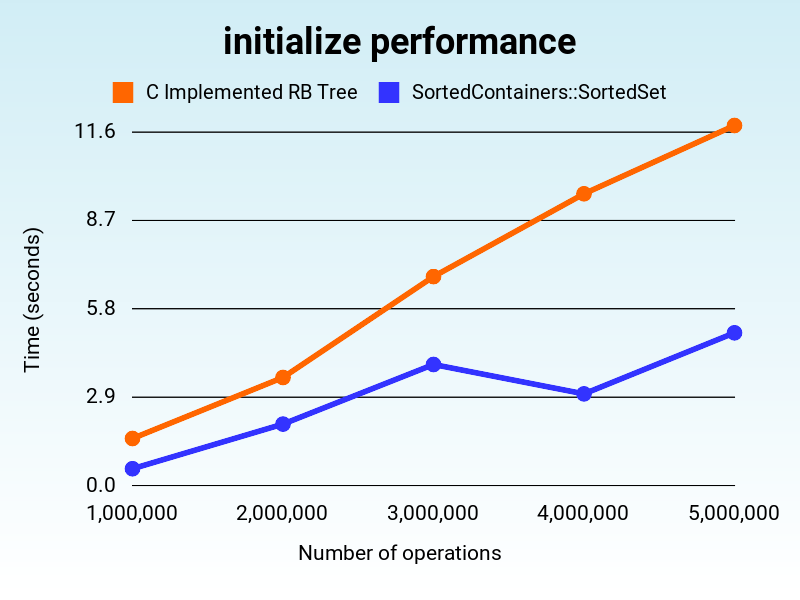
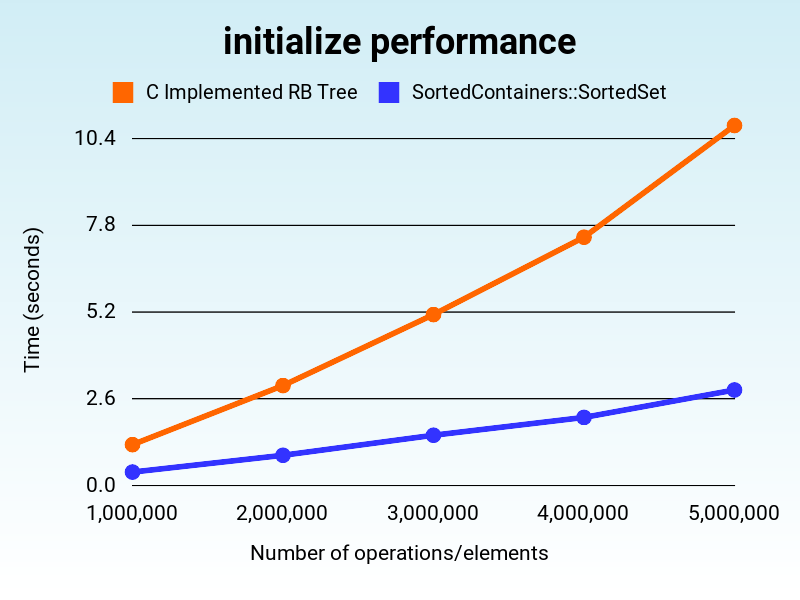
Update benchmarks

diff --git a/benchmark/benchmark.rb b/benchmark/benchmark.rb
@@ -19,9 +19,10 @@ Benchmark.bm(15) do |bm|
 
     # Benchmarking original SortedSet
     bm.report("SortedSet #{n}:") do
-      total_time = {add: 0, include: 0, loop: 0, delete: 0}
+      total_time = {initialize: 0, add: 0, include: 0, loop: 0, delete: 0}
       runs.times do
         sorted_set = SortedSet.new
+        total_time[:initialize] += Benchmark.measure { SortedSet.new(list_adds) }.real
         total_time[:add] += Benchmark.measure { list_adds.each { |i| sorted_set.add(i) } }.real
         total_time[:include] += Benchmark.measure { (1..n).map { rand((-0.5*n).to_i..(n*1.5).to_i) }.each { |i| sorted_set.include?(i) } }.real
         total_time[:loop] += Benchmark.measure { sorted_set.each { |i| } }.real
@@ -31,6 +32,7 @@ Benchmark.bm(15) do |bm|
           end
         end.real
       end
+      results_for_n[:initialize_sorted_set] = total_time[:initialize] / runs
       results_for_n[:add_sorted_set] = total_time[:add] / runs
       results_for_n[:include_sorted_set] = total_time[:include] / runs
       results_for_n[:loop_sorted_set] = total_time[:loop] / runs
@@ -39,9 +41,10 @@ Benchmark.bm(15) do |bm|
 
     # Benchmarking custom SortedSet
     bm.report("SortedContainers #{n}:") do
-      total_time = {add: 0, include: 0, loop: 0, delete: 0}
+      total_time = {initialize: 0, add: 0, include: 0, loop: 0, delete: 0}
       runs.times do
         sorted_set = SortedContainers::SortedSet.new
+        total_time[:initialize] += Benchmark.measure { SortedContainers::SortedSet.new(list_adds) }.real
         total_time[:add] += Benchmark.measure { list_adds.each { |i| sorted_set.add(i) } }.real
         total_time[:include] += Benchmark.measure { (1..n).map { rand((-0.5*n).to_i..(n*1.5).to_i) }.each { |i| sorted_set.include?(i) } }.real
         total_time[:loop] += Benchmark.measure { sorted_set.each { |i| } }.real
@@ -51,6 +54,7 @@ Benchmark.bm(15) do |bm|
           end
         end.real
       end
+      results_for_n[:initialize_sorted_containers] = total_time[:initialize] / runs
       results_for_n[:add_sorted_containers] = total_time[:add] / runs
       results_for_n[:include_sorted_containers] = total_time[:include] / runs
       results_for_n[:loop_sorted_containers] = total_time[:loop] / runs

diff --git a/benchmark/build_graphs.rb b/benchmark/build_graphs.rb
@@ -9,6 +9,7 @@ data = CSV.read("benchmark_results.csv", headers: true, converters: :numeric)
 # Prepare data arrays
 sizes = data["size"]
 operations = {
+  "initialize" => %w[initialize_sorted_set initialize_sorted_containers],
   "add" => %w[add_sorted_set add_sorted_containers],
   "include" => %w[include_sorted_set include_sorted_containers],
   "iteration" => %w[loop_sorted_set loop_sorted_containers],
@@ -31,7 +32,7 @@ def create_graph(title, _sizes, data1, data2, labels, file_name)
   g.data("SortedContainers::SortedSet", data2)
 
   # X-axis labels
-  g.x_axis_label = "Number of operations"
+  g.x_axis_label = "Number of operations/elements"
 
   # Labels for x_axis
   g.labels = labels
